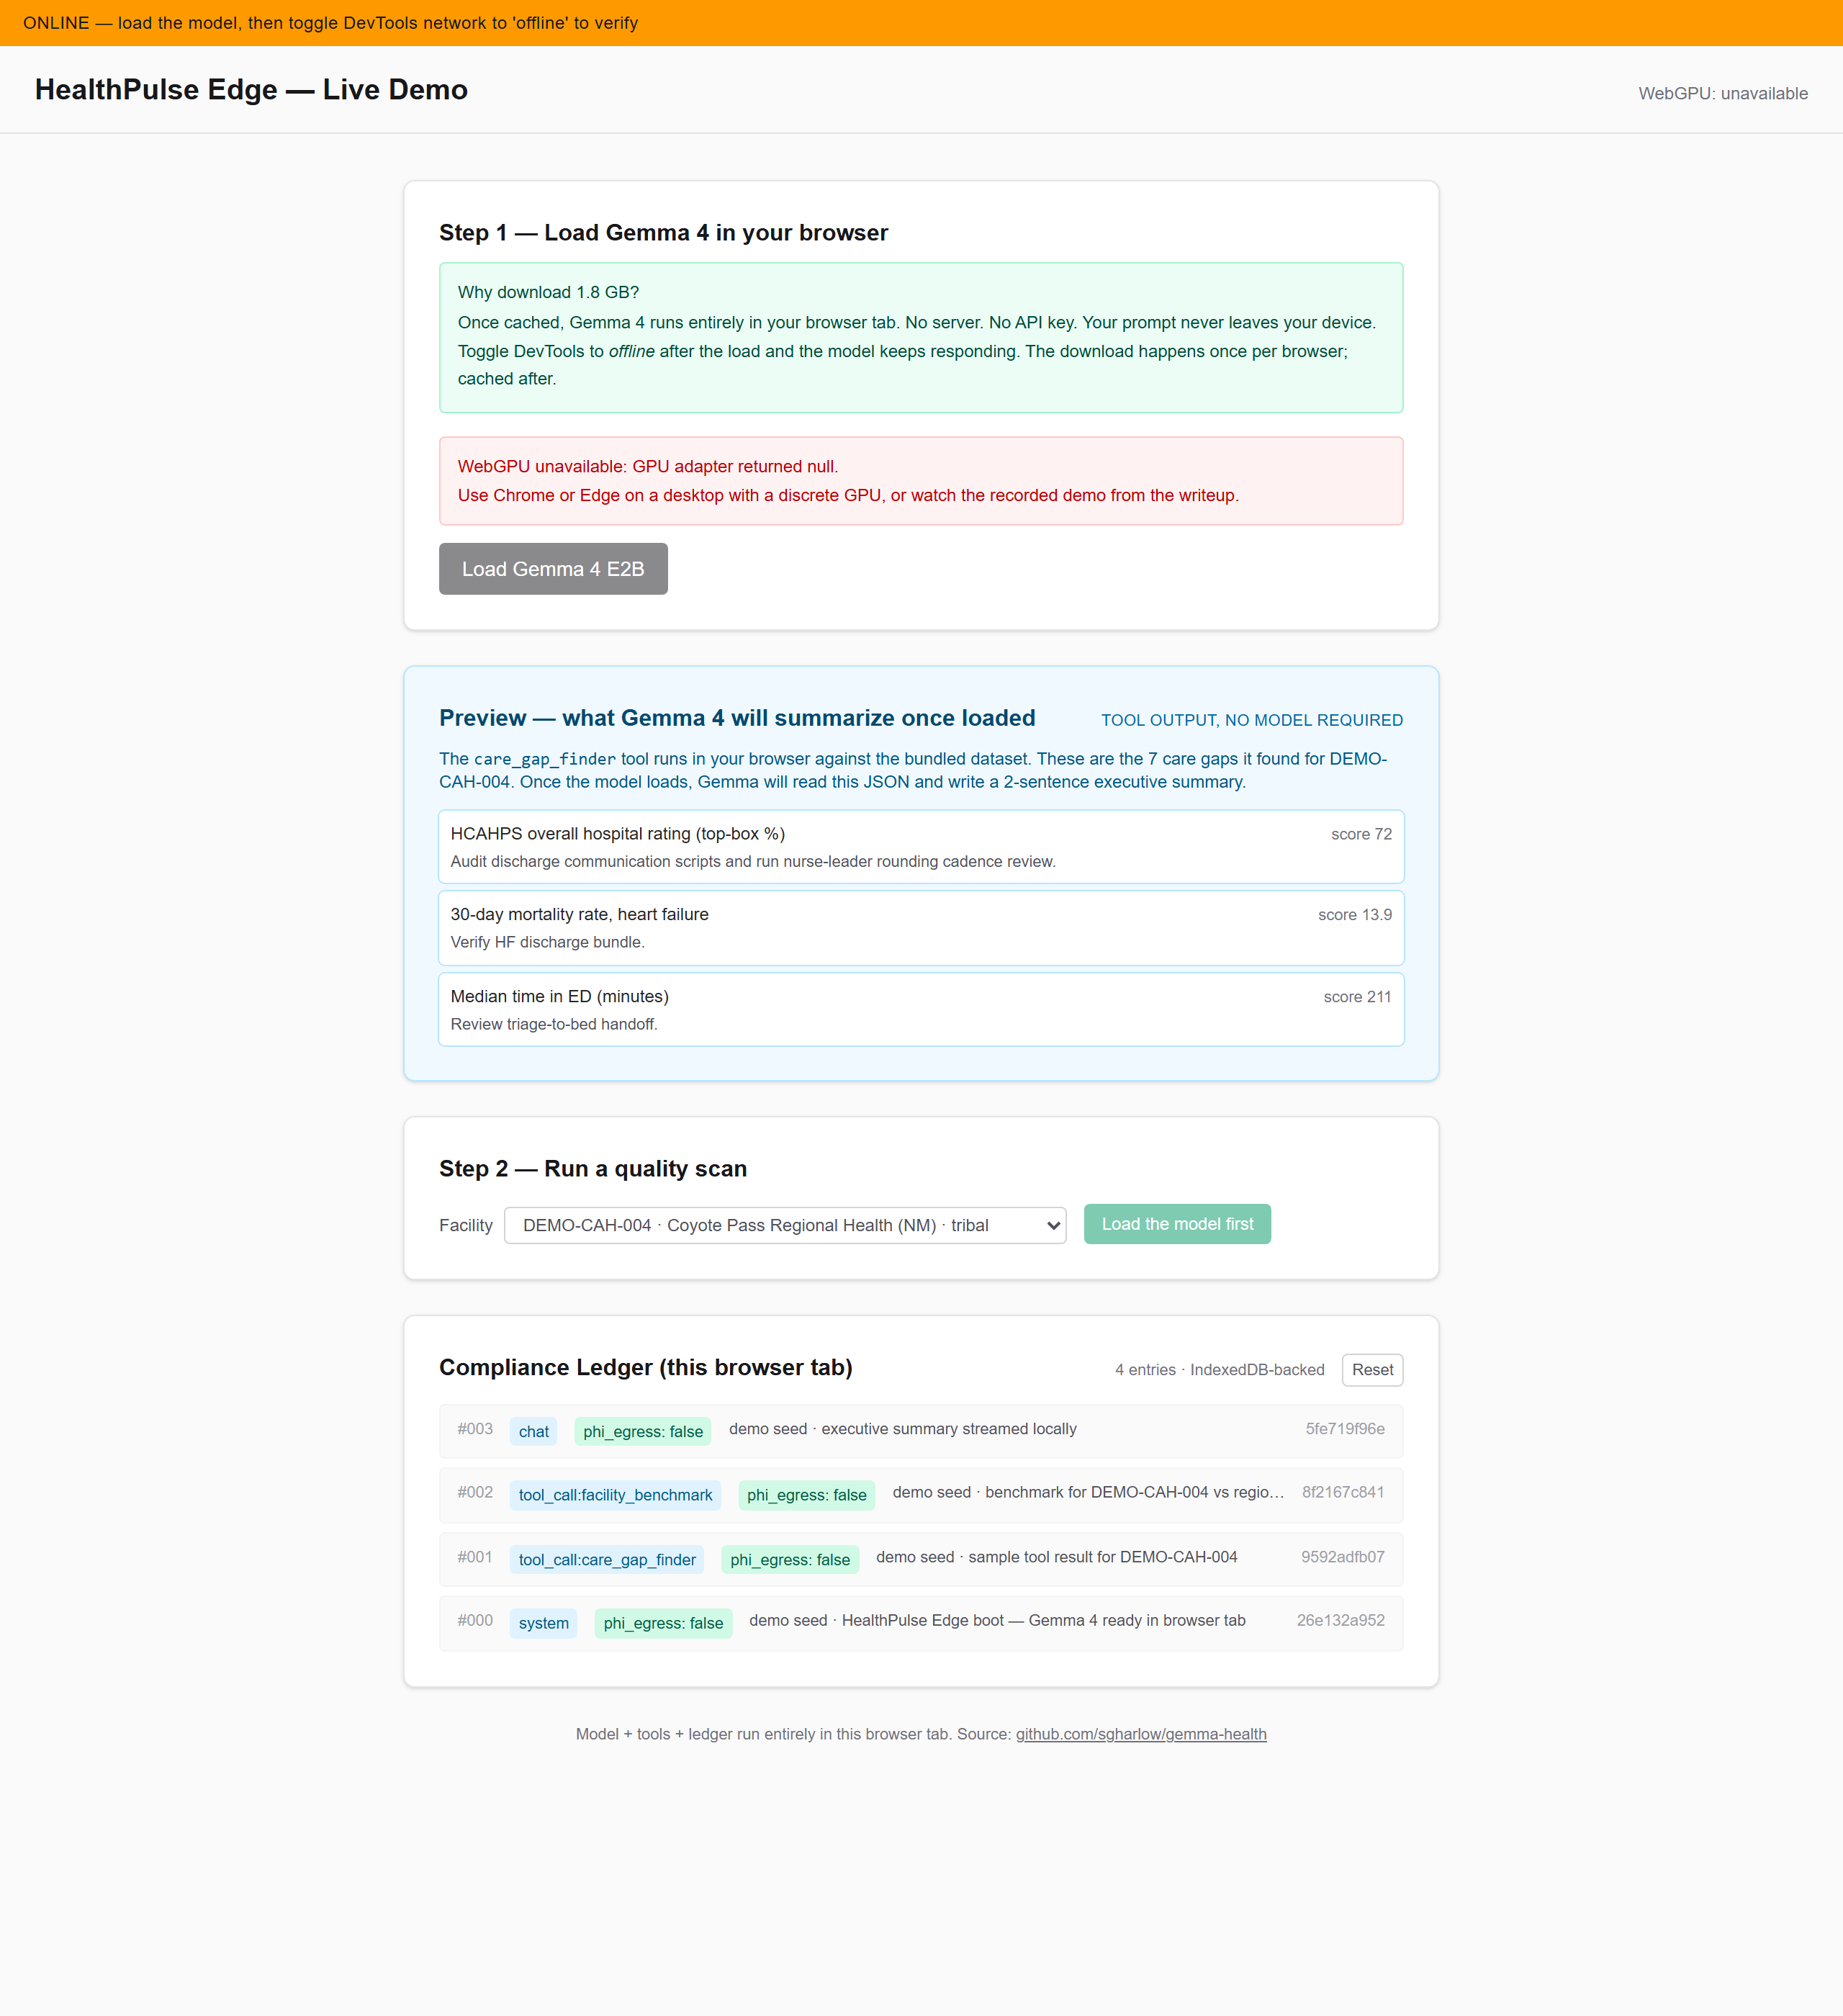
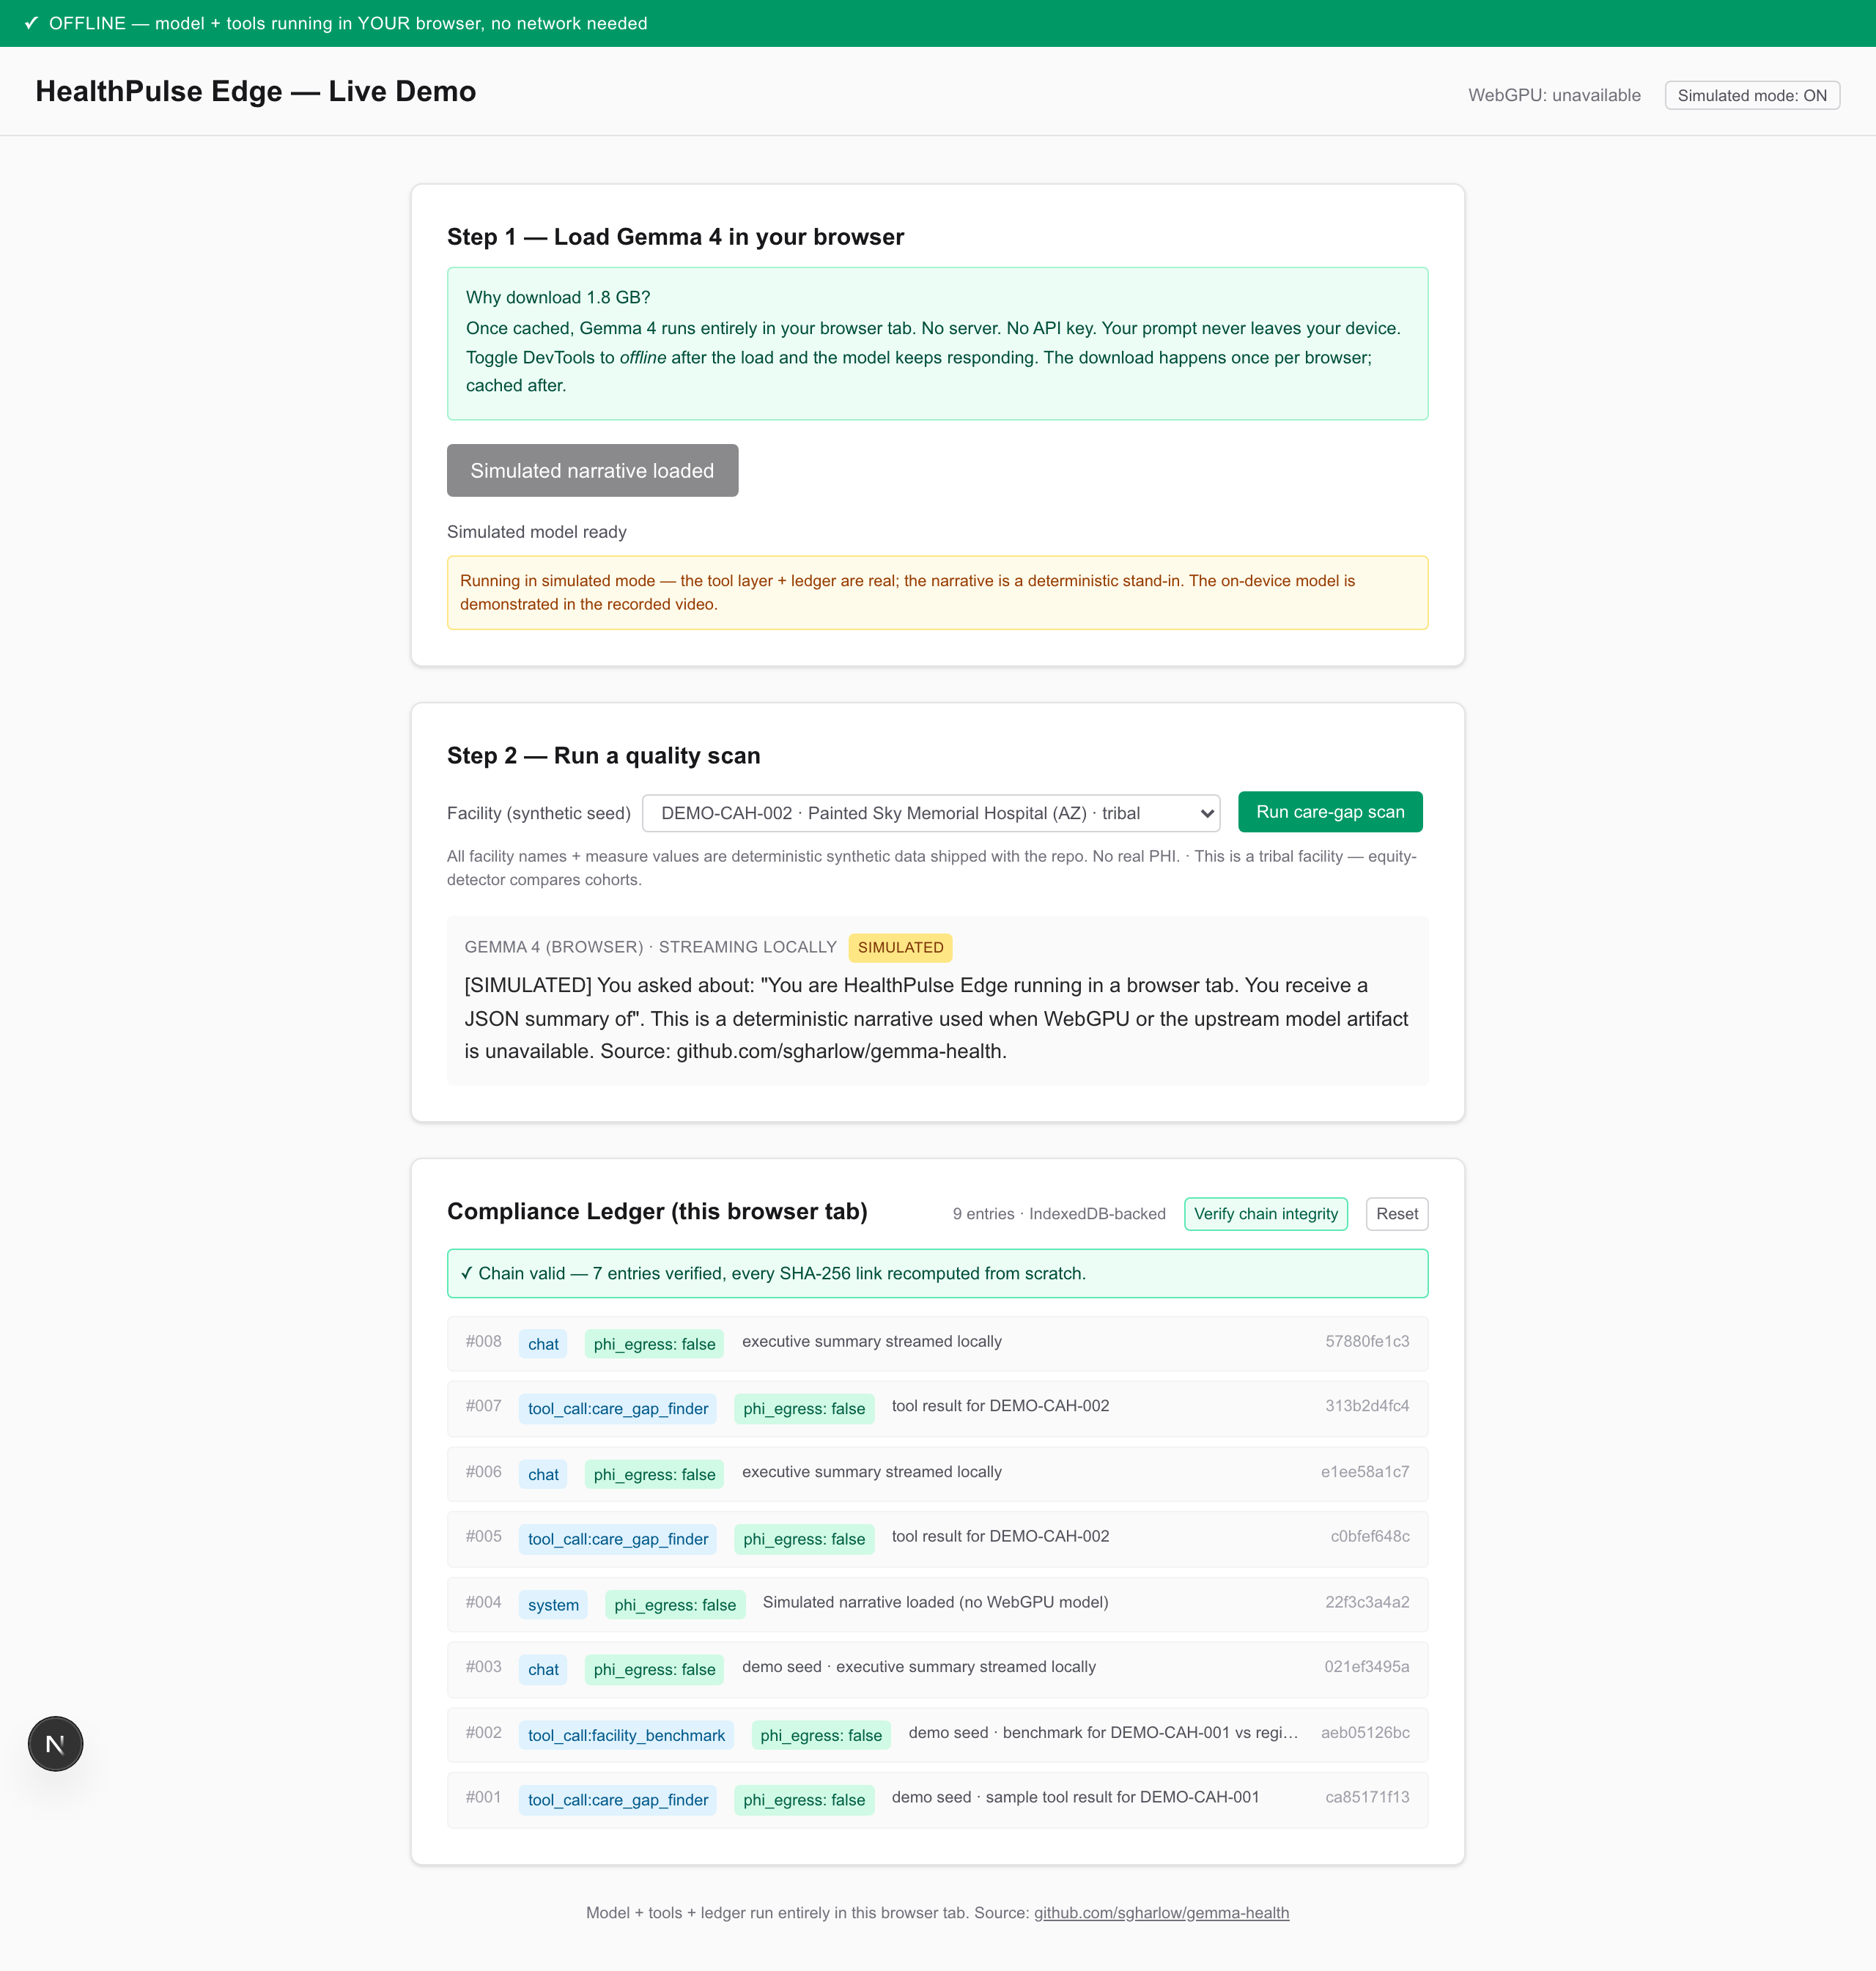
Snapshot pipeline: regenerate Media Gallery + add survey form
The previous Cmd-Shift-P workflow left assets/*.png pinned to Day 7-8
vintage even though the UI shipped Day 9-10 hardening. Replace with a
reproducible Playwright script and capture all three screenshots against
the current deploy.

- web/scripts/snapshot-screenshots.cjs — captures
  sovereignty-block from prod (CMS+blank-sig → REQUIRES SIGNATURE card),
  /edge offline proof from local (simulated narrative → run scan →
  verify chain → ctx.setOffline → run again), and on-prem home from
  local. fullPage at 1280×800 @user DPI.
- Regenerated assets/screenshot-sovereignty-block.png,
  screenshot-edge.png, screenshot-onprem-home.png against current UI.
- assets/patient-survey-print.html — printable HCAHPS-style patient
  experience survey for the Scene 3 webcam multimodal demo. Fields the
  vision pipeline extracts (patient_initials, visit_date,
  rating_overall) plus 5 Likert questions and a free-text section.
  Composite-character disclaimer included.
- playwright added as dev dep; chromium binary downloaded by
  `npx playwright install chromium`.

diff --git a/assets/patient-survey-print.html b/assets/patient-survey-print.html
@@ -1,0 +1,155 @@
+<!DOCTYPE html>
+<html lang="en">
+<head>
+<meta charset="UTF-8">
+<title>Patient Experience Survey — Sage Mesa CAH</title>
+<style>
+  @page { size: Letter; margin: 0.6in; }
+  html, body { margin: 0; padding: 0; font-family: "Times New Roman", Georgia, serif; color: #111; }
+  body { line-height: 1.45; font-size: 11pt; }
+  .sheet { max-width: 7.2in; margin: 0 auto; }
+  .hdr { border-bottom: 2px solid #111; padding-bottom: 6pt; margin-bottom: 14pt; }
+  .hdr h1 { margin: 0; font-size: 17pt; letter-spacing: 0.5pt; }
+  .hdr .sub { margin-top: 2pt; font-size: 10pt; color: #444; }
+  .meta { display: flex; gap: 18pt; margin: 10pt 0 14pt 0; font-size: 10pt; }
+  .meta .blk { flex: 1; }
+  .meta label { display: block; font-weight: bold; font-size: 9pt; letter-spacing: 0.3pt; text-transform: uppercase; color: #333; margin-bottom: 4pt; }
+  .meta .line { border-bottom: 1.2pt solid #000; height: 22pt; }
+  .intro { font-size: 10pt; color: #333; margin-bottom: 12pt; font-style: italic; }
+  h2 { font-size: 12pt; margin: 16pt 0 8pt 0; padding-bottom: 3pt; border-bottom: 1pt solid #999; }
+  .q { margin: 10pt 0; }
+  .qtext { margin-bottom: 4pt; }
+  .scale { display: flex; gap: 6pt; align-items: center; }
+  .scale .opt { display: inline-flex; align-items: center; gap: 4pt; font-size: 10pt; }
+  .scale .box { display: inline-block; width: 14pt; height: 14pt; border: 1.2pt solid #000; }
+  .scale .legend { margin-left: 12pt; font-size: 9pt; color: #555; }
+  .free { margin-top: 4pt; }
+  .free .lines { border: 1.2pt solid #000; height: 70pt; padding: 4pt 6pt; }
+  .footer { margin-top: 14pt; display: flex; justify-content: space-between; font-size: 9pt; color: #555; }
+  .footer .sigblock { width: 50%; }
+  .footer .siglabel { font-weight: bold; font-size: 9pt; }
+  .footer .sigline { border-bottom: 1.2pt solid #000; height: 22pt; margin-top: 16pt; }
+  .ack { margin-top: 18pt; font-size: 8.5pt; color: #555; border-top: 1pt dotted #999; padding-top: 6pt; }
+  @media screen {
+    body { background: #eee; padding: 24pt 0; }
+    .sheet { background: #fff; padding: 0.6in; box-shadow: 0 2px 12px rgba(0,0,0,0.1); }
+    .print-hint { max-width: 7.2in; margin: 0 auto 12pt; font-size: 11pt; color: #444; background: #fffbe6; border: 1px solid #f0d97a; padding: 8pt 12pt; border-radius: 4pt; }
+  }
+  @media print { .print-hint { display: none; } }
+</style>
+</head>
+<body>
+  <div class="print-hint">
+    Print this page (Cmd-P → "Save as PDF" or send to printer). Fill in the fields by hand,
+    then hold to the webcam for the multimodal capture demo. Composite hospital — for demo only.
+  </div>
+
+  <div class="sheet">
+    <div class="hdr">
+      <h1>Patient Experience Survey</h1>
+      <div class="sub">Sage Mesa Critical Access Hospital · Window Rock, AZ · Quality Improvement</div>
+    </div>
+
+    <p class="intro">
+      Your feedback helps us improve. Please return this survey to the front desk or to your
+      care team. Responses are confidential. We do not ask for your full name.
+    </p>
+
+    <div class="meta">
+      <div class="blk">
+        <label>Patient initials</label>
+        <div class="line"></div>
+      </div>
+      <div class="blk">
+        <label>Date of visit</label>
+        <div class="line"></div>
+      </div>
+      <div class="blk">
+        <label>Department</label>
+        <div class="line"></div>
+      </div>
+    </div>
+
+    <h2>Overall experience</h2>
+
+    <div class="q">
+      <div class="qtext"><strong>1.</strong> Overall, how would you rate your stay or visit today?</div>
+      <div class="scale">
+        <span class="opt"><span class="box"></span>1</span>
+        <span class="opt"><span class="box"></span>2</span>
+        <span class="opt"><span class="box"></span>3</span>
+        <span class="opt"><span class="box"></span>4</span>
+        <span class="opt"><span class="box"></span>5</span>
+        <span class="legend">1 = poor · 5 = excellent</span>
+      </div>
+    </div>
+
+    <div class="q">
+      <div class="qtext"><strong>2.</strong> How well did nurses communicate with you?</div>
+      <div class="scale">
+        <span class="opt"><span class="box"></span>1</span>
+        <span class="opt"><span class="box"></span>2</span>
+        <span class="opt"><span class="box"></span>3</span>
+        <span class="opt"><span class="box"></span>4</span>
+        <span class="opt"><span class="box"></span>5</span>
+      </div>
+    </div>
+
+    <div class="q">
+      <div class="qtext"><strong>3.</strong> How well did doctors and providers communicate with you?</div>
+      <div class="scale">
+        <span class="opt"><span class="box"></span>1</span>
+        <span class="opt"><span class="box"></span>2</span>
+        <span class="opt"><span class="box"></span>3</span>
+        <span class="opt"><span class="box"></span>4</span>
+        <span class="opt"><span class="box"></span>5</span>
+      </div>
+    </div>
+
+    <div class="q">
+      <div class="qtext"><strong>4.</strong> Was the facility clean and well-kept?</div>
+      <div class="scale">
+        <span class="opt"><span class="box"></span>1</span>
+        <span class="opt"><span class="box"></span>2</span>
+        <span class="opt"><span class="box"></span>3</span>
+        <span class="opt"><span class="box"></span>4</span>
+        <span class="opt"><span class="box"></span>5</span>
+      </div>
+    </div>
+
+    <div class="q">
+      <div class="qtext"><strong>5.</strong> Would you recommend this hospital to family or friends?</div>
+      <div class="scale">
+        <span class="opt"><span class="box"></span>1</span>
+        <span class="opt"><span class="box"></span>2</span>
+        <span class="opt"><span class="box"></span>3</span>
+        <span class="opt"><span class="box"></span>4</span>
+        <span class="opt"><span class="box"></span>5</span>
+      </div>
+    </div>
+
+    <h2>Comments (optional)</h2>
+    <div class="free">
+      <div class="lines"></div>
+    </div>
+
+    <div class="footer">
+      <div class="sigblock">
+        <div class="siglabel">Signature (optional)</div>
+        <div class="sigline"></div>
+      </div>
+      <div class="sigblock" style="text-align:right;">
+        <div class="siglabel">Today's date</div>
+        <div class="sigline"></div>
+      </div>
+    </div>
+
+    <div class="ack">
+      Sage Mesa Critical Access Hospital and the persona "Marlene Tsosie" used in the
+      HealthPulse Edge demonstration are composite — no actual hospital, IHS facility, or
+      healthcare worker is depicted. Survey design follows HCAHPS-style topic coverage for
+      demo realism only.
+    </div>
+  </div>
+</body>
+</html>